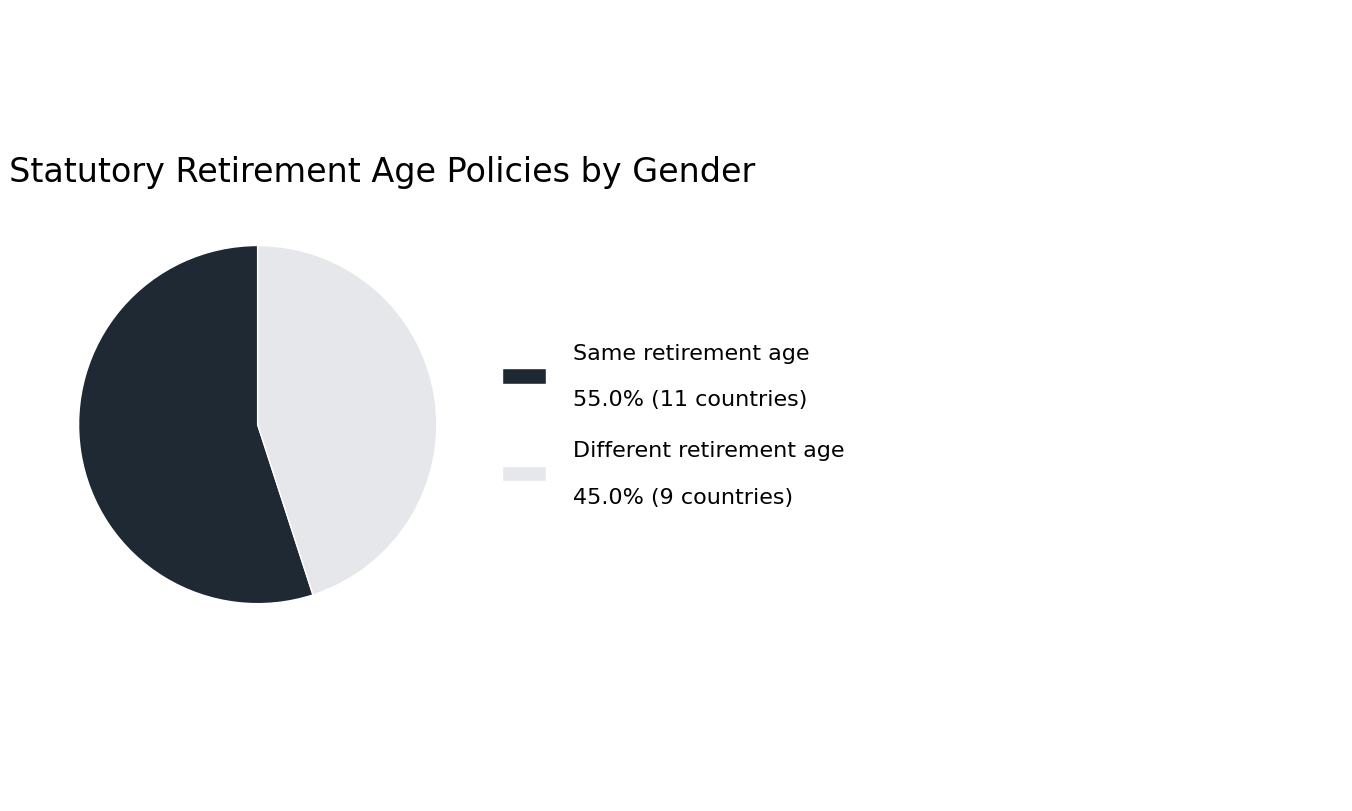
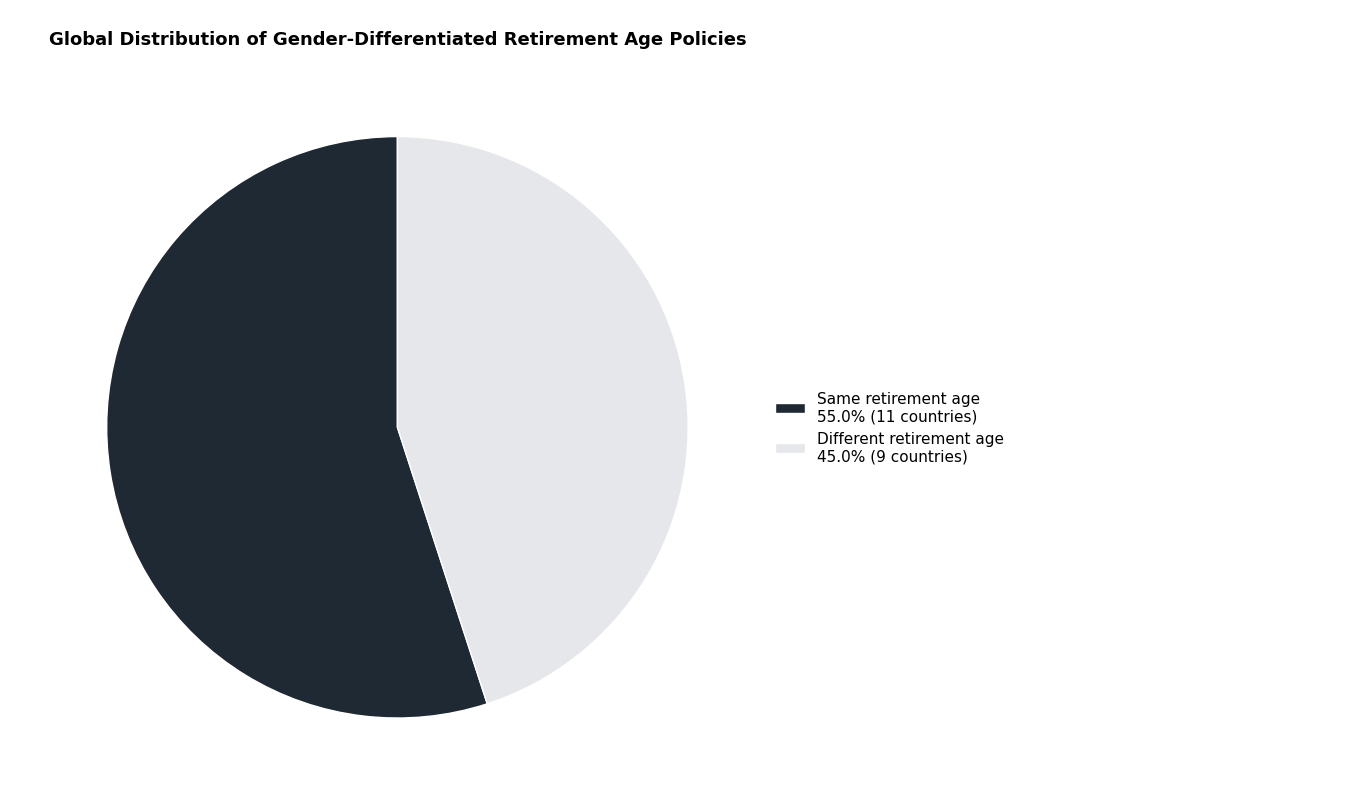
fix pie chart

Changed region(s): [[0.0, 0.1541, 0.7456, 0.894], [0.0311, 0.0308, 0.5592, 0.0617]]

diff --git a/07_visuals/retirement_age_overview-pie.py b/07_visuals/retirement_age_overview-pie.py
@@ -1,6 +1,5 @@
 import pandas as pd
 import matplotlib.pyplot as plt
-import os
 
 # -----------------------------
 # 1. Load or construct the data
@@ -36,67 +35,51 @@ df = pd.DataFrame(
 # -----------------------------
 # 2. Aggregate for pie chart
 # -----------------------------
-summary = df["Same"].value_counts().rename(
-    index={True: "Same retirement age", False: "Different retirement age"}
-)
-sizes = summary.tolist()
-total = sum(sizes)
+summary = df["Same"].value_counts()
+same_count = summary[True]
+diff_count = summary[False]
+total = same_count + diff_count
 
 # Percentages
-percentages = [s / total * 100 for s in sizes]
+same_pct = same_count / total * 100
+diff_pct = diff_count / total * 100
 
-# Colors (aligned with your site theme)
-colors = ["#1F2933", "#E5E7EB"]
+# -----------------------------
+# 3. Plot (clean version)
+# -----------------------------
+fig, ax = plt.subplots(figsize=(8, 8))
 
-# Create figure
-fig, ax = plt.subplots(figsize=(6, 6))
+colors = ["#1F2933", "#E5E7EB"]  # dark primary + neutral contrast
 
-# Nudge the chart slightly to the right to make room for the legend
-# Adjust position: move x0 right and reduce width to keep figure bounds
-shift = 0.06
-pos = ax.get_position()
-new_x0 = pos.x0 + shift
-new_width = max(0.1, pos.width - shift)
-ax.set_position([new_x0, pos.y0, new_width, pos.height])
-
-# Pie chart WITHOUT autopct
 wedges, _ = ax.pie(
-    sizes,
+    [same_count, diff_count],
     colors=colors,
     startangle=90,
     wedgeprops=dict(edgecolor="white", linewidth=1)
 )
 
 ax.set_title(
-    "Distribution of Statutory Retirement Age Policies by Gender",
+    "Global Distribution of Gender-Differentiated Retirement Age Policies",
     fontsize=24,
-    pad=14
+    pad=14,
+    fontweight="bold"
 )
 
-# Custom legend text (with % and counts)
+# Custom legend with figures UNDER labels
 legend_labels = [
-    f"Same retirement age\n\n{percentages[0]:.1f}% ({sizes[0]} countries)",
-    f"Different retirement age\n\n{percentages[1]:.1f}% ({sizes[1]} countries)"
+    f"Same retirement age\n{same_pct:.1f}% ({same_count} countries)",
+    f"Different retirement age\n{diff_pct:.1f}% ({diff_count} countries)"
 ]
 
 ax.legend(
     wedges,
     legend_labels,
     loc="center left",
-    bbox_to_anchor=(1, 0.5),
+    bbox_to_anchor=(2.0, 1.0),
     frameon=False,
-    fontsize=16,
-    labelspacing=1.4,
-    handletextpad=1.2
+    fontsize=14
 )
 
 ax.set_aspect("equal")
 plt.tight_layout()
-
-# In headless environments `plt.show()` may not open a window.
-# Save the figure next to this script so users can open it manually.
-out_path = os.path.join(os.path.dirname(__file__), "retirement_age_overview-pie.png")
-plt.savefig(out_path, dpi=150, bbox_inches="tight")
-print(f"Saved figure to {out_path}")
-
 plt.show()
